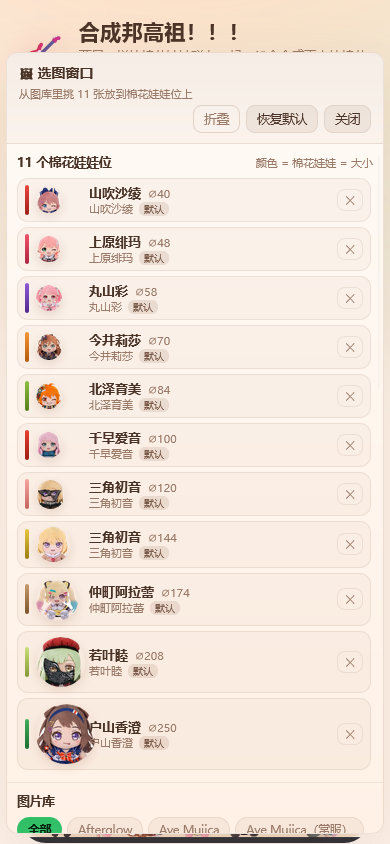
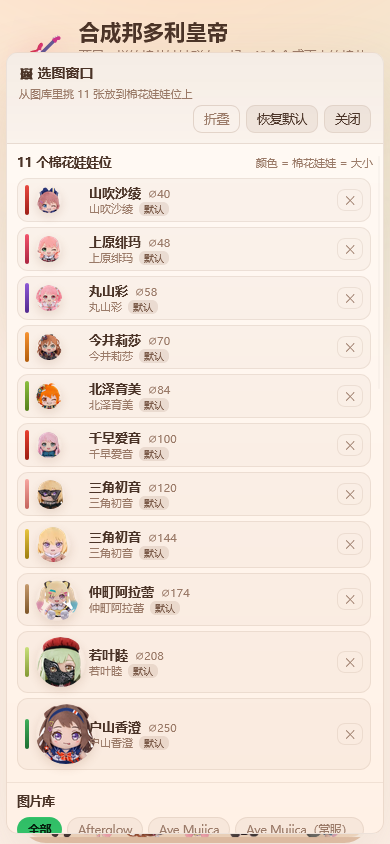
feat: 项目改名「合成邦多利皇帝」（原「合成邦高祖！！！」），v0.4.3
- 页面标题/品牌名/开局遮罩/启动脚本/README/文件头注释 共 25 个文件统一改名
- 重新生成封面截图（旧图里还是旧名）；版本号 0.4.2 → 0.4.3（缓存击穿）
- 新增 tools/rename-project.cjs：一键改项目名（供以后再改）
- 84 项测试仍全绿

Changed region(s): [[0.0615, 0.9858, 0.9231, 1.0], [0.3692, 0.0, 0.6154, 0.0616]]

diff --git a/index.html b/index.html
@@ -4,8 +4,8 @@
     <meta charset="utf-8" />
     <meta name="viewport" content="width=device-width, initial-scale=1, viewport-fit=cover" />
     <meta name="color-scheme" content="dark" />
-    <title>合成邦高祖！！！ · BanG Dream! 棉花娃娃版</title>
-    <link rel="stylesheet" href="css/style.css?v=0.4.2" />
+    <title>合成邦多利皇帝 · BanG Dream! 棉花娃娃版</title>
+    <link rel="stylesheet" href="css/style.css?v=0.4.3" />
   </head>
   <body>
     <div class="app">
@@ -13,7 +13,7 @@
         <div class="brand">
           <span class="brand-logo">🎸</span>
           <div class="brand-text">
-            <h1>合成邦高祖！！！</h1>
+            <h1>合成邦多利皇帝</h1>
             <p>两只一样的棉花娃娃碰在一起，就会合成更大的棉花娃娃</p>
           </div>
         </div>
@@ -99,7 +99,7 @@
         <!-- 中间：游戏画面 -->
         <section class="stage">
           <div class="board-wrap">
-            <canvas id="stage-canvas" width="480" height="700" aria-label="合成邦高祖游戏画面"></canvas>
+            <canvas id="stage-canvas" width="480" height="700" aria-label="合成邦多利皇帝游戏画面"></canvas>
             <div class="overlay" id="overlay" hidden>
               <div class="overlay-card">
                 <h2 id="overlay-title"></h2>
@@ -161,18 +161,18 @@
         };
       })();
     </script>
-    <script src="vendor/matter.min.js?v=0.4.2"></script>
-    <script src="js/config.js?v=0.4.2"></script>
-    <script src="js/library.js?v=0.4.2"></script>
-    <script src="js/assets-builtin.js?v=0.4.2"></script>
-    <script src="js/assets.js?v=0.4.2"></script>
-    <script src="js/boards.js?v=0.4.2"></script>
-    <script src="js/transport.js?v=0.4.2"></script>
-    <script src="js/sync.js?v=0.4.2"></script>
-    <script src="js/engine.js?v=0.4.2"></script>
-    <script src="js/render.js?v=0.4.2"></script>
-    <script src="js/ui.js?v=0.4.2"></script>
-    <script src="js/picker.js?v=0.4.2"></script>
-    <script src="js/game.js?v=0.4.2"></script>
+    <script src="vendor/matter.min.js?v=0.4.3"></script>
+    <script src="js/config.js?v=0.4.3"></script>
+    <script src="js/library.js?v=0.4.3"></script>
+    <script src="js/assets-builtin.js?v=0.4.3"></script>
+    <script src="js/assets.js?v=0.4.3"></script>
+    <script src="js/boards.js?v=0.4.3"></script>
+    <script src="js/transport.js?v=0.4.3"></script>
+    <script src="js/sync.js?v=0.4.3"></script>
+    <script src="js/engine.js?v=0.4.3"></script>
+    <script src="js/render.js?v=0.4.3"></script>
+    <script src="js/ui.js?v=0.4.3"></script>
+    <script src="js/picker.js?v=0.4.3"></script>
+    <script src="js/game.js?v=0.4.3"></script>
 </body>
 </html>

diff --git a/js/game.js b/js/game.js
@@ -1,5 +1,5 @@
 /*!
- * 合成邦高祖！！！ · 主流程
+ * 合成邦多利皇帝 · 主流程
  * 把引擎、渲染、界面、音效、排行榜串起来：开局 → 投放 → 合成计分 → 结束 → 上榜。
  */
 (function (root) {
@@ -909,7 +909,7 @@
 
   function showReadyOverlay() {
     UI.showOverlay({
-      title: '🎸 合成邦高祖！！！',
+      title: '🎸 合成邦多利皇帝',
       body:
         '<ul class="rules">' +
         '<li>前 5 级棉花娃娃会从天上掉下来，<b>两只相同的棉花娃娃碰在一起</b>就会合成更大的棉花娃娃。</li>' +

diff --git a/js/config.js b/js/config.js
@@ -1,5 +1,5 @@
 /*!
- * 合成邦高祖！！！ · 基础配置
+ * 合成邦多利皇帝 · 基础配置
  * 纯数据 + 纯函数，不依赖 DOM，可以直接在 node 下 require 做逻辑测试。
  * 想改玩偶顺序 / 半径 / 分值 / 难度 / 物理手感，只改这一个文件就够了。
  */
@@ -9,7 +9,7 @@
 })(typeof globalThis !== 'undefined' ? globalThis : this, function () {
   'use strict';
 
-  var VERSION = '0.4.2';
+  var VERSION = '0.4.3';
 
   /* 画布与场地（逻辑像素，渲染时按 devicePixelRatio 放大） */
   var BOARD = {

diff --git a/js/library.js b/js/library.js
@@ -1,5 +1,5 @@
 /*!
- * 合成邦高祖！！！ · 图片库（纯函数）
+ * 合成邦多利皇帝 · 图片库（纯函数）
  *
  * 图片不再是「用户自己导入」，而是**内嵌在游戏里的一个图库**（`js/assets-builtin.js` 里的
  * `window.SUIKA_IMAGE_LIBRARY`），用户在「选图小窗口」里从图库里挑 11 张，分别放到 11 个玩偶位上。

diff --git a/js/assets-builtin.js b/js/assets-builtin.js
@@ -1,5 +1,5 @@
 /*!
- * 合成邦高祖！！！ · 玩偶版 内置图库（自动生成，勿手改）
+ * 合成邦多利皇帝 · 玩偶版 内置图库（自动生成，勿手改）
  *
  * 来源：桌面 bangdream 文件夹（9 支乐队 × 5 位角色 = 45 张玩偶）
  * 处理：JPEG→PNG、去白底、裁剪、缩放到 384px、按轮廓拟合碰撞圆

diff --git a/js/engine.js b/js/engine.js
@@ -1,5 +1,5 @@
 /*!
- * 合成邦高祖！！！ · 游戏核心（物理 + 合成 + 计分 + 判负）
+ * 合成邦多利皇帝 · 游戏核心（物理 + 合成 + 计分 + 判负）
  *
  * 这个文件完全不碰 DOM，只维护 Matter.js 世界和游戏状态，
  * 所以可以直接在 node 里跑模拟测试（见 tests/logic.test.mjs）。

diff --git a/js/boards.js b/js/boards.js
@@ -1,5 +1,5 @@
 /*!
- * 合成邦高祖！！！ · 榜单文档（纯函数）
+ * 合成邦多利皇帝 · 榜单文档（纯函数）
  *
  * 做法 C：没有自己的服务器，把「一张榜单」当成一个 JSON 文档存在第三方免费 KV 上。
  * 文档结构（字段名故意取短，整份文档要控制在 10KB 以内）：

diff --git a/js/assets.js b/js/assets.js
@@ -1,5 +1,5 @@
 /*!
- * 合成邦高祖！！！ · 贴图运行时
+ * 合成邦多利皇帝 · 贴图运行时
  *
  * 图片**全部内嵌在图库里**（`js/assets-builtin.js` → `window.SUIKA_IMAGE_LIBRARY`），
  * 游戏不再提供「导入图片」的功能：用户在「选图小窗口」里从图库里挑 11 张。

diff --git a/js/sync.js b/js/sync.js
@@ -1,5 +1,5 @@
 /*!
- * 合成邦高祖！！！ · 全球排行榜同步
+ * 合成邦多利皇帝 · 全球排行榜同步
  *
  * 一张榜单 = 一份 JSON 文档（结构见 js/boards.js），存在第三方免费 KV 上（见 js/transport.js）。
  * 这个文件负责「怎么用得稳」：

diff --git a/js/render.js b/js/render.js
@@ -1,5 +1,5 @@
 /*!
- * 合成邦高祖！！！ · Canvas 渲染
+ * 合成邦多利皇帝 · Canvas 渲染
  * 只负责画：场地、危险线、玩偶（贴图或默认 emoji 外观）、粒子与飘分特效。
  */
 (function (root) {

diff --git a/js/transport.js b/js/transport.js
@@ -1,5 +1,5 @@
 /*!
- * 合成邦高祖！！！ · 榜单传输层
+ * 合成邦多利皇帝 · 榜单传输层
  *
  * 把「榜单文档怎么存取」和「榜单怎么合并、怎么缓存」分开。
  * 目前两种实现：

diff --git a/js/picker.js b/js/picker.js
@@ -1,5 +1,5 @@
 /*!
- * 合成邦高祖！！！ · 选图小窗口
+ * 合成邦多利皇帝 · 选图小窗口
  *
  * 需求（用户提的）：
  *   1. 单独开一个小窗口，从图库里自由挑 11 张；
